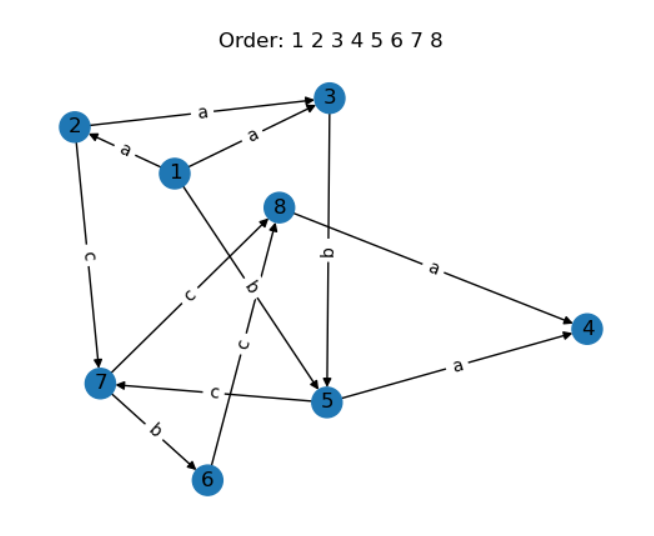
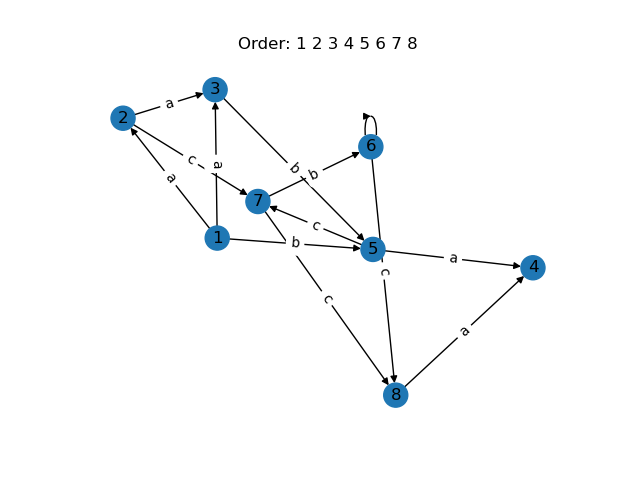
README

diff --git a/visualize.py b/visualize.py
@@ -14,6 +14,14 @@ def vis_multiple(G, generator, approach):
     fig, ax = plt.subplots()
     pos = nx.spring_layout(G)
     ani = animation.FuncAnimation(fig, update, frames=partial(generator,G,approach), fargs=(G, pos, ax), repeat=False)
+
+    
+    # This is how to save the animation as a gif
+    f = 'images/trie.gif'
+    writergif = animation.PillowWriter(fps=30) 
+    ani.save(f, writer=writergif)
+    
+
     plt.show()
     return ani
 

diff --git a/benchmark.py b/benchmark.py
@@ -44,5 +44,5 @@ for fname in dirs:
     data[fname] = [notime, potime, ntime, ptime]
 
 df = pd.DataFrame.from_dict(data, orient='index', columns=['naive-order', 'partition-order', 'naive', 'partition'])
-print(df)
+#print(df)
 df.to_csv('benchmark/bench.csv')  

diff --git a/README.md b/README.md
@@ -1,0 +1,45 @@
+# Wheeler graph visualization
+For EN.601.447 Computational Genomics. It has functions for creating graphs, checking whether they satisfy the Wheeler properties, and animating a visualization of the graph. It was written entirely in Python.
+
+## Installation
+Use [Anaconda](https://www.anaconda.com/products/individual) or [Miniconda](https://docs.conda.io/en/latest/miniconda.html) to install all dependencies in an environment. After cloning this repo, creating an environment, and activating the environment, run
+
+```
+conda env create
+```
+
+or
+
+```
+conda env create --file jhu_comp_gen.yml
+```
+
+## Usage
+There are two important files:
+1. `main.py`
+2. `benchmark.py`
+
+### main.py
+`main.py` runs a single simulation. It requires a `-p` input file path and `-a` approach type (`naive` or `partition`). The input file must be of our [custom file format](data/README.md). 
+
+```
+python main.py -p data/manual/wheeler.txt -a naive
+```
+The command above should produce this Wheeler graph
+![Wheeler graph](images/wheeler-vis.png)
+
+If the input file doesn't contain an ordering to verify or the `-no` ignore-ordering flag is used, all possible orderings are checked.
+```
+python main.py -p data/trie/trie.txt -a partition
+```
+The command above should produce this animation
+![Animation](images/trie.gif)
+
+Optional parameters include the `-no` ignore-ordering flag, `-nv` no-visualization flag, and `-l` numeric log level.
+
+### benchmark.py
+`benchmark.py` runs multiple simulations. It currently has hard-coded parameters and is used for benchmarking different approaches on different files. It saves the resulting dataframe in a csv file called `bench.csv`
+
+## Structure
+
+

diff --git a/data/README.md b/data/README.md
@@ -1,11 +1,11 @@
 ## Data format description
 
-Tentative encoding of a wheeler graph (V,E), ordering, and its source in a text file
+Custom encoding (not using bitvectors) of a wheeler graph (V,E), ordering, and its source in a text file
 
-V is a list of vertex names, separated by spaces
+- V is a list of vertex names, separated by spaces
 
-E is a list of directed edges (v1, v2, l), separated by spaces, where v1 -> v2 with edge label l.
+- E is a list of directed edges (v1, v2, l), separated by spaces, where v1 -> v2 with edge label l.
 
-A correct ordering (if one exists) is given by a list of vertex names
+- A correct ordering (if one exists) is given by a list of vertex names
 
-Source file/link is last line.
+- Source file/link is last line.
